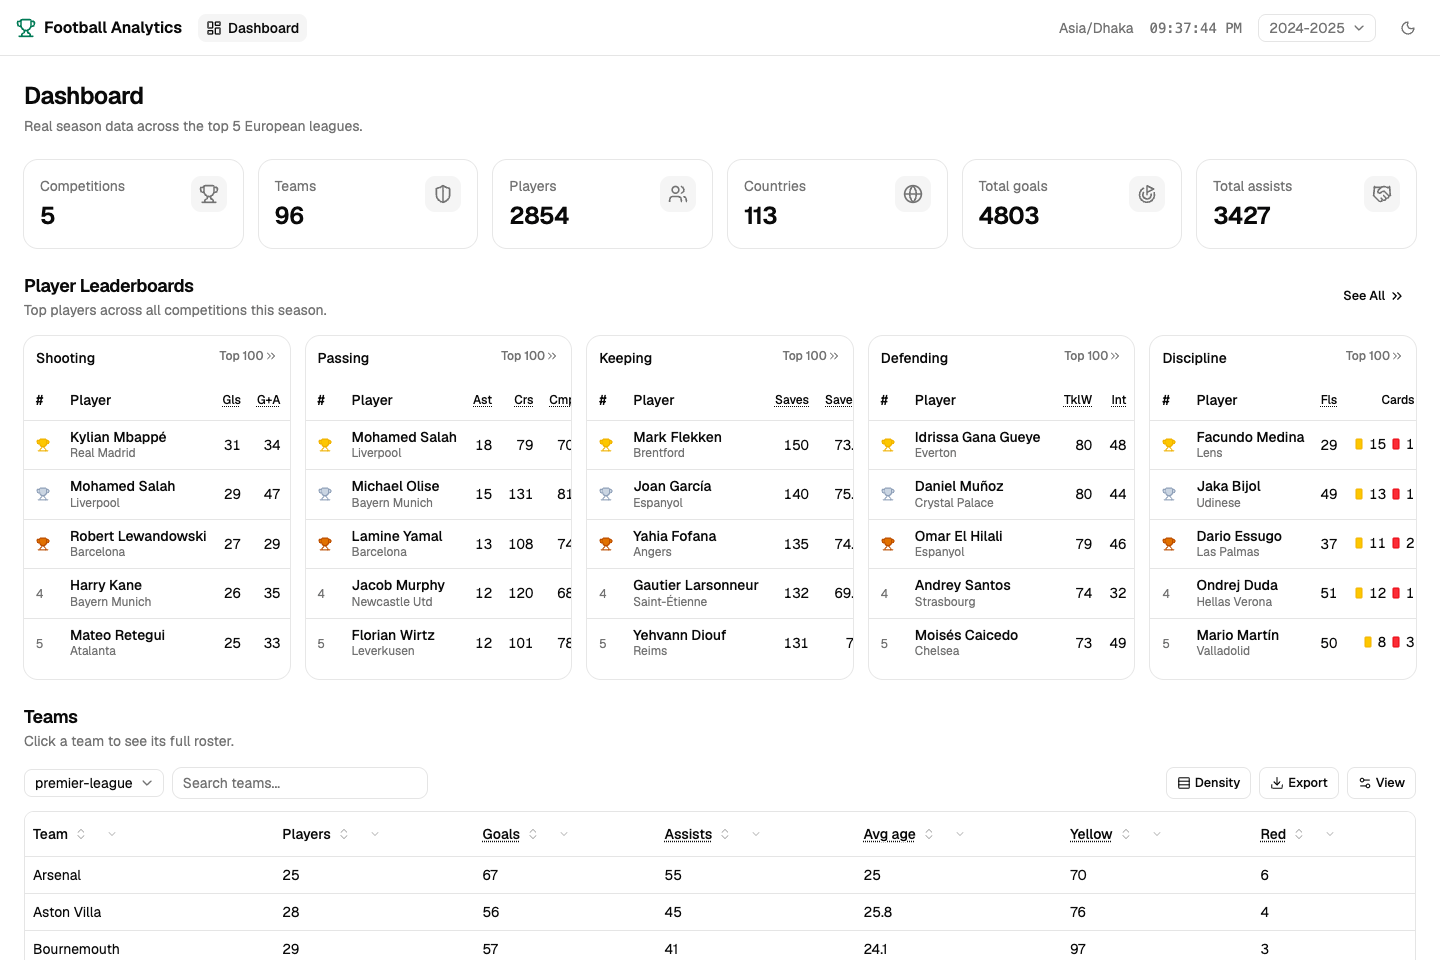
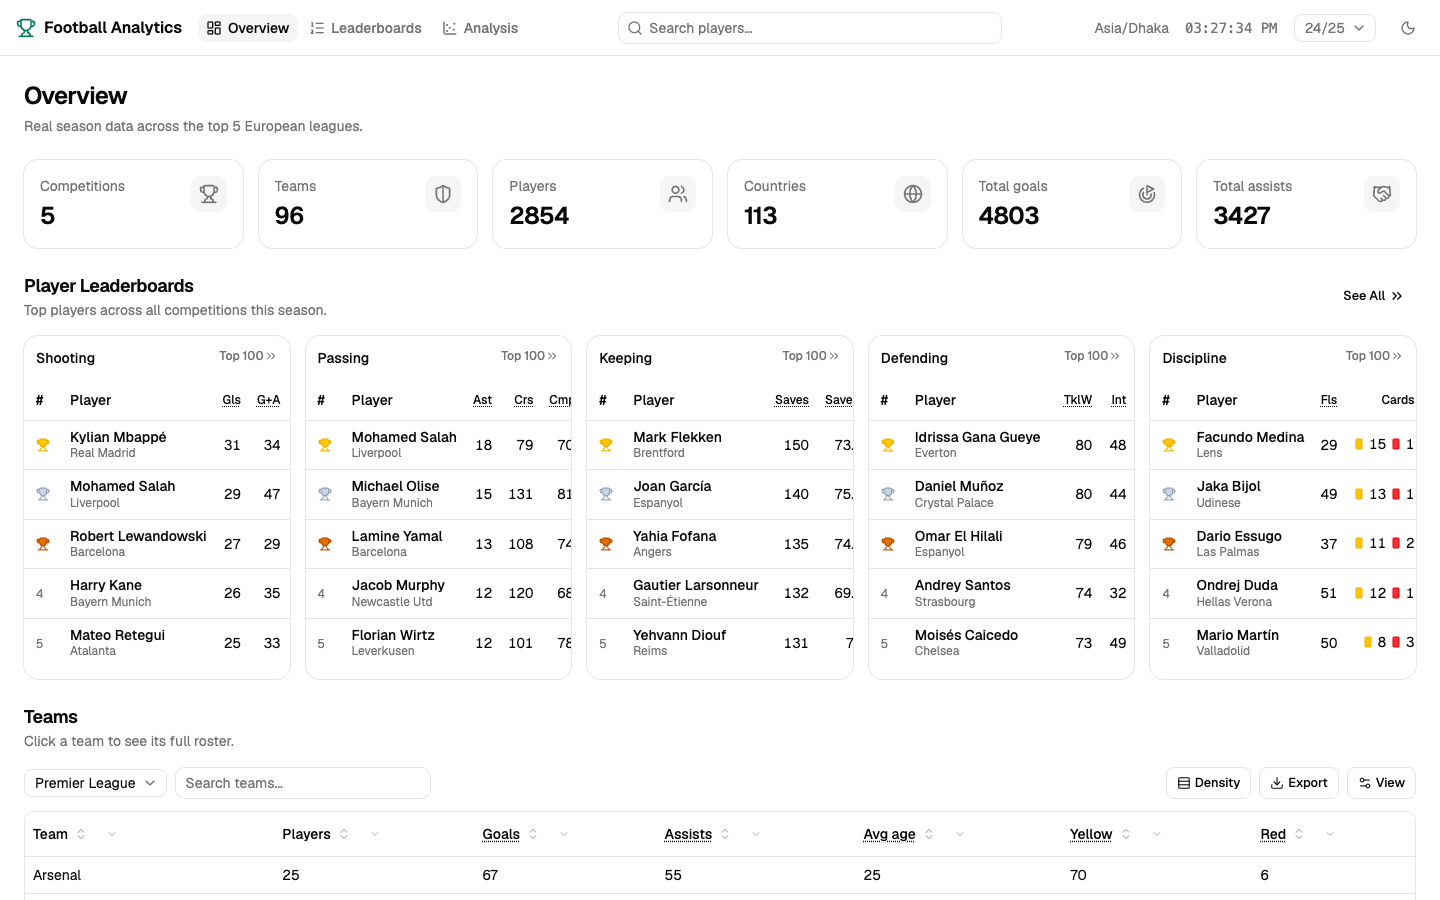
feat: rename Dashboard to Overview in README and navigation; update related screenshots and descriptions

diff --git a/frontend/src/routes/index.tsx b/frontend/src/routes/index.tsx
@@ -153,7 +153,7 @@ function buildCountryColumns(glossary: Map<string, { short_description: string }
 }
 
 function DashboardPage() {
-  useDocumentTitle("Dashboard")
+  useDocumentTitle("Overview")
   const navigate = useNavigate()
   const { season } = useSeason()
   const [competition, setCompetition] = useState<string>(DEFAULT_COMPETITION)
@@ -193,7 +193,7 @@ function DashboardPage() {
 
   return (
     <div className="flex flex-col gap-6">
-      <PageHeader title="Dashboard" description="Real season data across the top 5 European leagues." />
+      <PageHeader title="Overview" description="Real season data across the top 5 European leagues." />
 
       <div className="grid grid-cols-2 gap-4 lg:grid-cols-3 xl:grid-cols-6">
         {summaryLoading || !summary ? (

diff --git a/frontend/src/lib/nav.ts b/frontend/src/lib/nav.ts
@@ -1,8 +1,9 @@
-import { ChartScatter, LayoutDashboard } from "lucide-react"
+import { ChartScatter, LayoutDashboard, ListOrdered } from "lucide-react"
 
 // Sidebar nav items, also used to derive navbar breadcrumb labels from the current route path.
-// Teams and players are browsed by clicking through from the dashboard, not via nav entries.
+// Teams and players are browsed by clicking through from the overview page, not via nav entries.
 export const NAV_ITEMS = [
-  { title: "Dashboard", url: "/", icon: LayoutDashboard },
+  { title: "Overview", url: "/", icon: LayoutDashboard },
+  { title: "Leaderboards", url: "/leaderboards", icon: ListOrdered },
   { title: "Analysis", url: "/analysis", icon: ChartScatter },
 ] as const

diff --git a/README.md b/README.md
@@ -14,7 +14,7 @@ FastAPI + Polars, frontend is React + TanStack Router/Query/Table + shadcn/ui.
 
 |                                                                                              |                                                                    |
 | --------------------------------------------------------------------------------------------- | -------------------------------------------------------------------- |
-| ![Dashboard](docs/screenshots/dashboard-1.png)                                               | ![Player detail — radar chart plus a 3x2 grid of the player's own major-stats card and their closest/youngest comps (dark mode)](docs/screenshots/player-details.png) |
+| ![Overview](docs/screenshots/dashboard-1.png)                                               | ![Player detail — radar chart plus a 3x2 grid of the player's own major-stats card and their closest/youngest comps (dark mode)](docs/screenshots/player-details.png) |
 | ![Compare Players — Match-first, position-significant category ordering, with a Similar Players add panel](docs/screenshots/compare.png) | ![Team detail](docs/screenshots/team-details.png)                  |
 | ![Leaderboards — Young Players (23 or under) toggle](docs/screenshots/leaderboards-index.png) | ![Shooting leaderboard — Young Players toggle with Age column](docs/screenshots/leaderboard.png) |
 | ![Analysis — Top 25 role scatter charts, Young Players toggle (dark mode)](docs/screenshots/analysis.png) | ![Stat glossary](docs/screenshots/glossary.png)                    |
@@ -24,13 +24,13 @@ FastAPI + Polars, frontend is React + TanStack Router/Query/Table + shadcn/ui.
 - **Season & competition switching** — every page scopes its data to the
   selected season (2024-25 / 2025-26) and competition; switching either
   re-fetches everything downstream.
-- **Dashboard** — headline stat cards, a sortable team table and a country
+- **Overview** — headline stat cards, a sortable team table and a country
   table for the selected competition/season, plus a 5-card leaderboard
   preview with a "See All" link through to the full Leaderboards page.
 - **Team, player, and country detail pages** — full rosters, player profiles
   grouped into stat cards (Match, Shooting, Passing, Creation, Possession,
   Discipline, Keeping, Defending), reached by clicking through from the
-  dashboard. Player positions are colour-coded (GK red, defenders orange,
+  overview page. Player positions are colour-coded (GK red, defenders orange,
   midfielders green, forwards blue) for fast scanning of rosters and
   leaderboards.
 - **Position radar charts** — every player detail page renders a radar chart

diff --git a/docs/screenshots/README.md b/docs/screenshots/README.md
@@ -6,7 +6,7 @@ edit needed.
 
 | Filename | Page |
 | --- | --- |
-| `dashboard-1.png` | Dashboard (`/`) — season/competition pickers, stat cards, 5-card leaderboard preview, team table. Light mode, first viewport only. |
+| `dashboard-1.png` | Overview (`/`) — season/competition pickers, stat cards, 5-card leaderboard preview, team table. Light mode, first viewport only. |
 | `player-details.png` | Player detail (`/players/$playerId`) — profile header, position radar chart, and the 3x2 grid of the player's own major-stats card plus their Similar Players/Young Talents comps (green ring + badge on the young ones). Dark mode, first viewport only. |
 | `compare.png` | Compare Players (`/compare`) — a keeper + a forward, showing the Match-first/position-significant category ordering on the per-category radar grid, plus the Similar Players add panel. Light mode, first viewport only. |
 | `team-details.png` | Team detail (`/teams/$teamId`) — roster table with colour-coded position badges. Light mode, first viewport only. |
